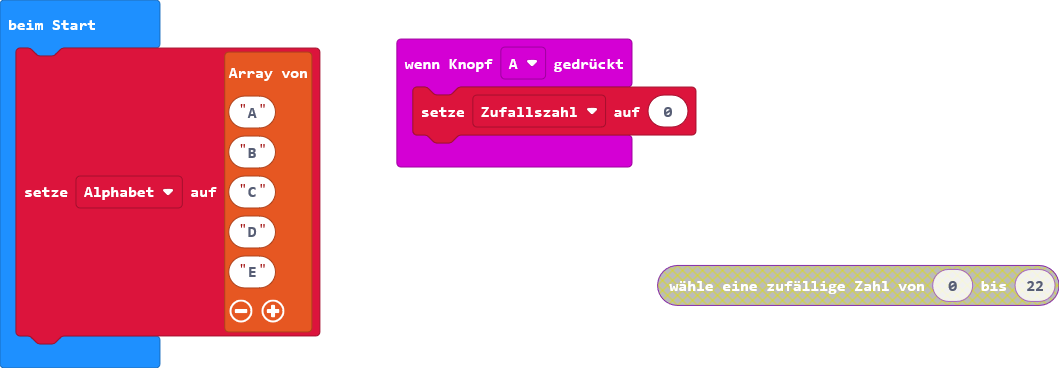
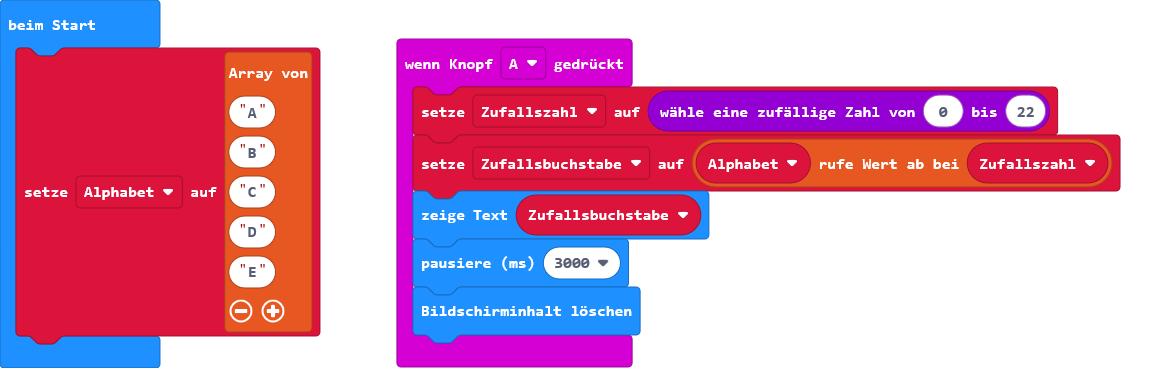
Aktualisiere main.blocks, main.ts, stadtlandfluss.md

diff --git a/main.ts b/main.ts
@@ -1,8 +1,14 @@
 input.onButtonPressed(Button.A, function () {
-    Zufallszahl = 0
+    Zufallszahl = randint(0, 22)
+    Zufallsbuchstabe = Alphabet[Zufallszahl]
+    basic.showString("" + (Zufallsbuchstabe))
+    basic.pause(3000)
+    basic.clearScreen()
 })
+let Zufallsbuchstabe = ""
 let Zufallszahl = 0
-let Alphabet = [
+let Alphabet: string[] = []
+Alphabet = [
 "A",
 "B",
 "C",

diff --git a/stadtlandfluss.md b/stadtlandfluss.md
@@ -49,25 +49,67 @@ Wie viele Elemente (Buchstaben) beinhaltet das erstellte Array? Merke dir die An
 
 Generiere eine ganzzahlige ``||math:Zufallszahl||`` zwischen ``||math:0||`` und der im vorigen Schritt ermittelten ``||math:Zahl||``. 
 
+```blocks
+input.onButtonPressed(Button.A, function () {
+    Zufallszahl = randint(0, 22)
+})
+```
+
 ## Schritt 6 
 
-Ändere den Wert der Variablen ``||variables: Zufallszahl|`` auf die berechnete Zahl. 
+Ändere den Wert der Variablen ``||variables: Zufallszahl|`` auf die berechnete Zahl.
+
+```blocks
+input.onButtonPressed(Button.A, function () {
+    Zufallszahl = randint(0, 22)
+})
+```
 
 ## Schritt 7 
 
 Erstelle eine ``||variables: Variable||`` mit dem Namen ``||variables: Zufallsbuchstabe||``.
 
+```blocks
+input.onButtonPressed(Button.A, function () {
+    Zufallszahl = randint(0, 22)
+    Zufallsbuchstabe = 0
+})
+```
+
 ## Schritt 8
 
 Wähle nun das Element an der (zufällig) generierten Position (= Wert der Variable ``||variables: Zufallszahl||``) im ``||array: Array||`` aus. 
+
+```blocks
+input.onButtonPressed(Button.A, function () {
+    Zufallszahl = randint(0, 22)
+    Zufallsbuchstabe = Alphabet[Zufallszahl]
+})
+```
+
 
 ## Schritt 9
 
 Setze den Wert der Variable ``||variables: Zufallsbuchstabe||`` auf den ``||math: zufällig||`` ausgewählten Buchstaben.
 
+```blocks
+input.onButtonPressed(Button.A, function () {
+    Zufallszahl = randint(0, 22)
+    Zufallsbuchstabe = Alphabet[Zufallszahl]
+})
+```
+
+
 ## Schritt 10
 
 Der Buchstabe soll am ``||basic: LED-Display||`` für eine bestimmte ``||basic: Zeit||`` angezeigt werden. 
 
-## Schritt 11
-Todo 
+```blocks
+input.onButtonPressed(Button.A, function () {
+    Zufallszahl = randint(0, 22)
+    Zufallsbuchstabe = Alphabet[Zufallszahl]
+    basic.showString("" + (Zufallsbuchstabe))
+    basic.pause(3000)
+    basic.clearScreen()
+})
+```
